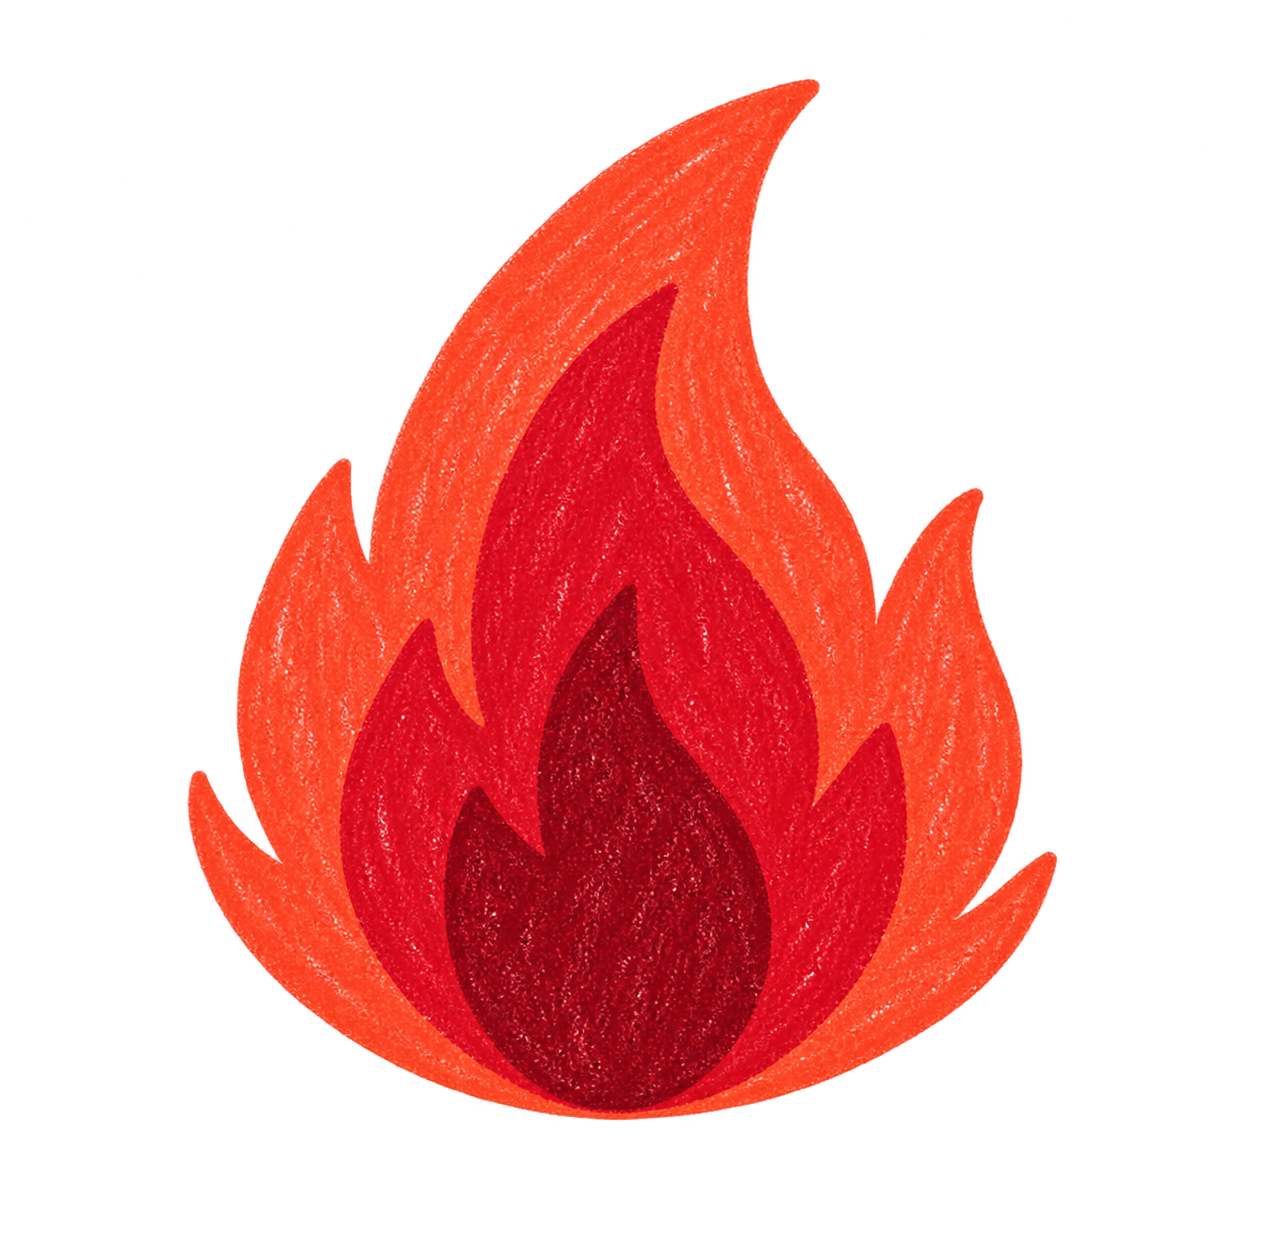
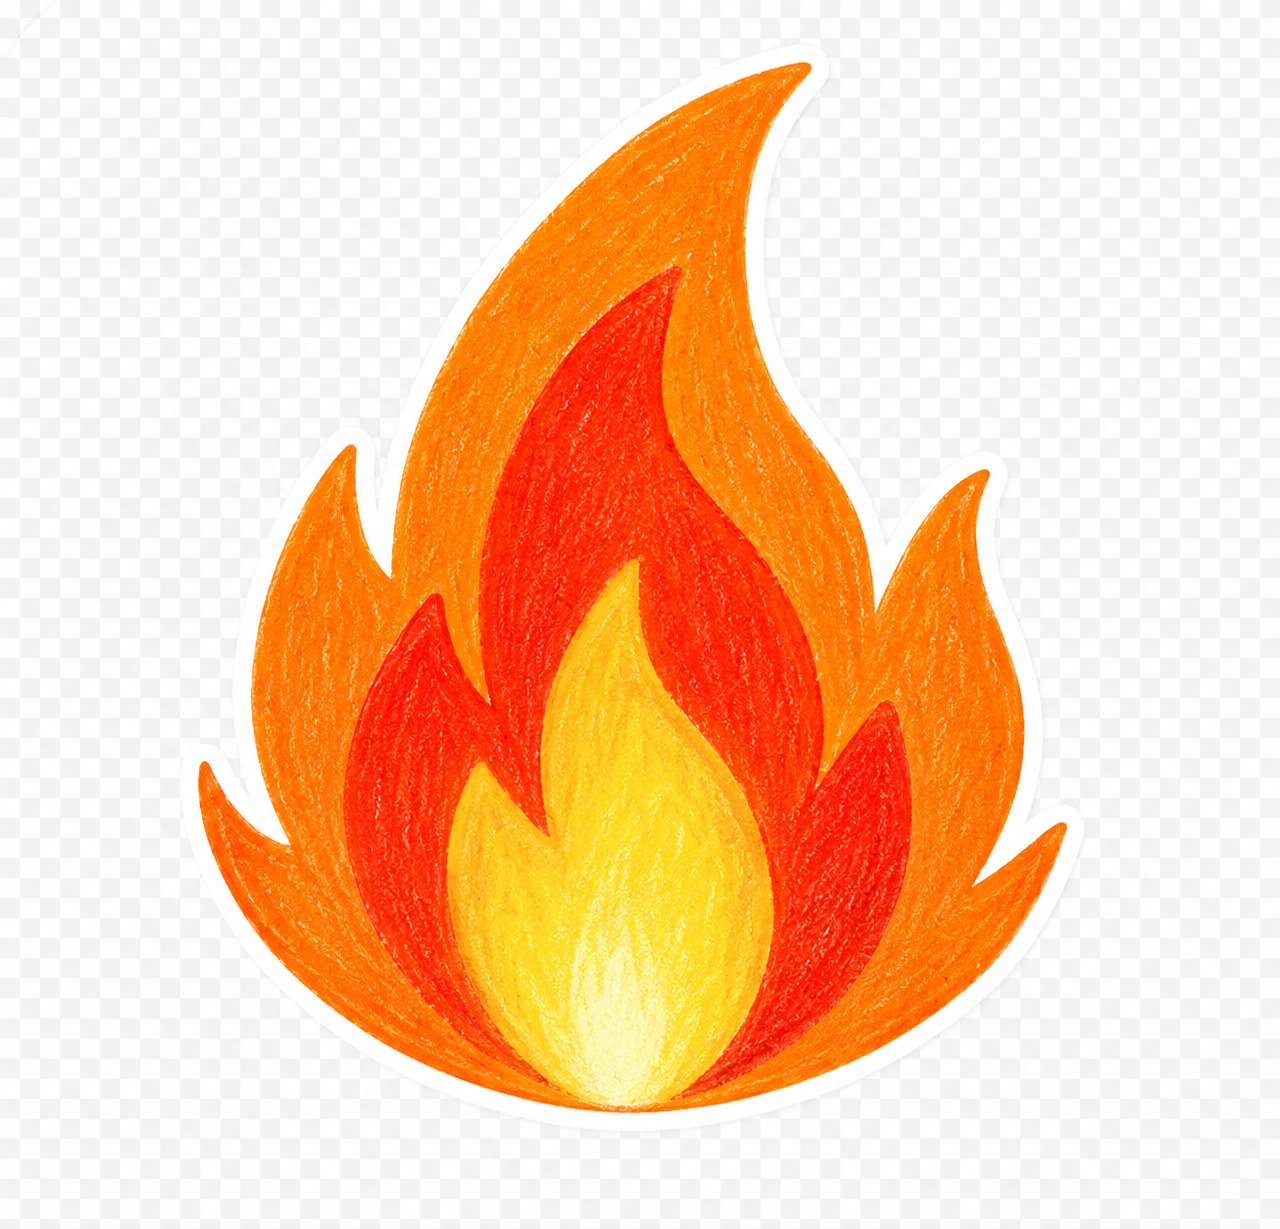
Update trend flames and creation toolbar

diff --git a/index.html b/index.html
@@ -119,7 +119,7 @@
   .dash-idea-results { padding:0 28px; display:flex; flex-direction:row; gap:10px; overflow-x:auto; }
   .dash-idea-row { font-family:'DM Mono',monospace; font-size:13px; letter-spacing:1px; cursor:pointer; background:rgba(255,255,255,0.55); border-radius:999px; padding:8px 12px; white-space:nowrap; }
   .dash-trends-card { padding:16px; border-radius:12px; background:#fff8f1; }
-  .dash-trends-title { display:flex; align-items:center; justify-content:center; gap:12px; margin-bottom:16px; }
+  .dash-trends-title { display:flex; align-items:center; justify-content:center; gap:12px; margin-bottom:16px; transform:translateY(-15px); }
   .dash-trends-flame { width:28px; height:28px; object-fit:contain; margin-left:-4px; }
   .dash-trends-count { font-family:'DM Sans',sans-serif; font-size:12px; font-weight:800; text-transform:none; color:#806b55; background:#eee3d8; border-radius:999px; padding:6px 12px; }
   .dash-trend-row { display:flex; gap:18px; overflow-x:auto; padding:0 2px 6px; scroll-snap-type:x proximity; align-items:stretch; }
@@ -129,9 +129,8 @@
   .dash-trend-img-wrap img { width:100%; height:100%; object-fit:cover; display:block; }
   .dash-trend-card.no-img .dash-trend-img-wrap::before { content:'Trend'; position:absolute; inset:0; display:flex; align-items:center; justify-content:center; font-family:'Cormorant Garamond',serif; font-size:30px; text-transform:uppercase; color:rgba(26,16,9,0.32); }
   .dash-trend-num { position:absolute; top:10px; left:10px; width:32px; height:32px; border-radius:50%; display:flex; align-items:center; justify-content:center; color:#fff; font-size:14px; font-weight:800; font-family:'DM Sans',sans-serif; box-shadow:0 2px 6px rgba(0,0,0,0.18); z-index:2; }
-  .dash-trend-badge { position:absolute; top:10px; right:10px; z-index:2; border-radius:999px; padding:5px 9px; color:#fff; font-size:9px; font-weight:900; font-family:'DM Sans',sans-serif; text-transform:uppercase; background:var(--papaya); box-shadow:0 2px 8px rgba(0,0,0,0.18); }
-  .dash-trend-card:nth-child(3n+1) .dash-trend-badge { background:var(--fuschia); }
-  .dash-trend-card:nth-child(3n+2) .dash-trend-badge { background:#e99b00; }
+  .dash-trend-flames { position:absolute; left:10px; bottom:8px; z-index:3; display:flex; gap:2px; padding:4px 6px; border-radius:999px; background:rgba(255,255,255,0.82); box-shadow:0 3px 10px rgba(0,0,0,0.12); }
+  .dash-trend-flames img { width:17px; height:17px; object-fit:contain; }
   .dash-trend-body { padding:10px 12px 0; }
   .dash-trend-title { font-family:'Cormorant Garamond',serif; font-size:18px; font-weight:800; line-height:1.05; margin:0 58px 5px 0; color:#21170f; }
   .dash-trend-desc { font-size:11px; color:var(--text-dim); line-height:1.25; margin-bottom:8px; display:-webkit-box; -webkit-line-clamp:2; -webkit-box-orient:vertical; overflow:hidden; }
@@ -504,7 +503,8 @@
 
   /* ===== PAGE 5 : CRÉATION ===== */
   .mini-page { display:grid; grid-template-columns:1fr; grid-template-rows:minmax(0,1fr) auto auto; height:calc(100dvh - var(--nav-h) - 56px); padding:0; overflow:hidden; background:#f3eee8; border-radius:18px; }
-  .mini-toolbar { display:flex; gap:12px; padding:14px 16px; background:#fff; border-top:1px solid var(--border); overflow-x:auto; flex-shrink:0; height:auto; }
+  .mini-toolbar { display:flex; gap:12px; padding:14px 16px; background:#fff; border-top:1px solid var(--border); overflow-x:auto; flex-shrink:0; height:auto; align-items:stretch; }
+  .creation-heading { display:none; }
   .creation-panel-title { font-family:'Cormorant Garamond',serif; font-size:28px; line-height:0.95; text-transform:uppercase; color:var(--text); }
   .creation-panel-sub { font-size:12px; color:var(--text-dim); margin-top:4px; line-height:1.35; }
   .creation-group { display:flex; flex-direction:column; gap:8px; padding-left:12px; border-left:1px solid var(--border); min-width:180px; }
@@ -785,7 +785,7 @@
     <div id="page-mini" class="page">
       <div class="mini-page">
         <div class="mini-toolbar">
-          <div>
+          <div class="creation-heading">
             <div class="creation-panel-title">Création</div>
             <div class="creation-panel-sub" id="creation-workshop-label">Atelier CPC · posts rapides</div>
           </div>
@@ -943,6 +943,9 @@
       <div class="form-row"><label class="input-label">Lien musique</label><input class="input" id="ct-music-link" placeholder="https://..."></div>
       <div class="form-row"><label class="input-label">Difficulté</label>
         <select class="input" id="ct-diff"><option value="">—</option><option>Facile</option><option>Moyen</option><option>Difficile</option></select>
+      </div>
+      <div class="form-row"><label class="input-label">Flammes</label>
+        <select class="input" id="ct-flames"><option value="">Aucune</option><option value="1">1 flamme</option><option value="2">2 flammes</option><option value="3">3 flammes</option></select>
       </div>
       <div class="form-row"><label class="input-label">Réseaux</label>
         <div class="multi-select">
@@ -1915,8 +1918,14 @@ function isAppearTrend(r){
 
 function trendImage(r){
   if(isAppearTrend(r)) return 'assets/trend-faire-apparaitre.png';
+  if(isWithWithoutTrend(r)) return 'assets/trend-moi-avec-sans.png';
   const f=r.fields||{};
   return f['Image']||f['Photo']||f['Miniature URL']||'';
+}
+
+function isWithWithoutTrend(r){
+  const title=dashboardTitle(r).toLowerCase().normalize('NFD').replace(/[\u0300-\u036f]/g,'');
+  return title.includes('moi avec') || title.includes('moi sans');
 }
 
 function renderNetworkPill(rs){
@@ -1924,6 +1933,17 @@ function renderNetworkPill(rs){
   const low=label.toLowerCase();
   const src=low.includes('tiktok')?'assets/picto-tiktok.png':(low.includes('insta')?'assets/picto-instagram.png':'');
   return `<span class="dash-trend-pill">${src?`<img class="dash-network-icon" src="${src}" alt="">`:''}${htmlSafe(label)}</span>`;
+}
+
+function trendFlameCount(f){
+  const raw=f['Flammes']??f['Niveau flamme']??f['Niveau flammes']??f['Feu']??f['Fire']??'';
+  const num=Number(String(raw).match(/\d+/)?.[0]||0);
+  return Math.max(0, Math.min(3, num));
+}
+
+function renderTrendFlames(count){
+  if(!count) return '';
+  return `<div class="dash-trend-flames">${Array.from({length:count},()=>'<img src="assets/picto-flamme.png" alt="">').join('')}</div>`;
 }
 
 function tFeedCard(r,i=0){
@@ -1938,17 +1958,16 @@ function tFeedCard(r,i=0){
   const isSel=!!selTrends[r.id];
   const numColor=['#2f6d3d','var(--papaya)','#8a7355'][i%3];
   const score=Math.max(56, Math.min(96, Number(f['Viralité']||f['Score']||f['Score viral']||f['Viralite']) || (92 - (i*7)%34)));
-  const badge=['🔥 Viral','🔥 En hausse','🔥 Presque viral','🔥 Monte'][i%4];
+  const flames=trendFlameCount(f);
   const duration=f['Durée']||f['Durée estimée']||f['Temps']||`${[15,20,10,18][i%4]} sec`;
   const safeTitle=htmlSafe(title);
   const safeDesc=htmlSafe(desc);
   const safeMusic=htmlSafe(music);
   return `<div class="dash-trend-card ${image?'':'no-img'} ${isSel?'selected':''}" id="tfc-${r.id}">
     <div class="dash-trend-num" style="background:${numColor}">${(i%3)+1}</div>
-    <div class="dash-trend-badge">${badge}</div>
     ${image
-      ?`<div class="dash-trend-img-wrap"><img src="${htmlSafe(image)}" alt=""></div>`
-      :`<div class="dash-trend-img-wrap"></div>`}
+      ?`<div class="dash-trend-img-wrap"><img src="${htmlSafe(image)}" alt="">${renderTrendFlames(flames)}</div>`
+      :`<div class="dash-trend-img-wrap">${renderTrendFlames(flames)}</div>`}
     <div class="dash-trend-body">
       <div class="dash-trend-meta">
         <div>
@@ -2094,6 +2113,7 @@ async function createTrend(){
   const music=document.getElementById('ct-music').value.trim();if(music)fields['Nom de la musique']=music;
   const ml=document.getElementById('ct-music-link').value.trim();if(ml)fields['Lien de la musique']=ml;
   const diff=document.getElementById('ct-diff').value;if(diff)fields['Difficulté']=diff;
+  const flames=document.getElementById('ct-flames').value;if(flames)fields['Flammes']=Number(flames);
   const cc=document.getElementById('ct-capcut').value.trim();if(cc)fields['Template Cap Cut']=cc;
   const ex=document.getElementById('ct-exemple').value.trim();if(ex)fields['Vidéo exemple']=ex;
   if(reseaux.length)fields['Réseaux']=reseaux;
@@ -2104,7 +2124,7 @@ async function createTrend(){
     document.getElementById('create-trend-msg').textContent='✅ Trend créée !';
     document.getElementById('create-trend-msg').style.color='#2F4731';
     ['ct-titre','ct-desc','ct-music','ct-music-link','ct-capcut','ct-exemple'].forEach(id=>document.getElementById(id).value='');
-    document.getElementById('ct-diff').value='';document.getElementById('ct-niches').value='';
+    document.getElementById('ct-diff').value='';document.getElementById('ct-flames').value='';document.getElementById('ct-niches').value='';
     document.querySelectorAll('#modal-trend .ms-opt.selected').forEach(b=>b.classList.remove('selected'));
     allTrends=[];trendsLoaded=false;
     await loadTrends();
